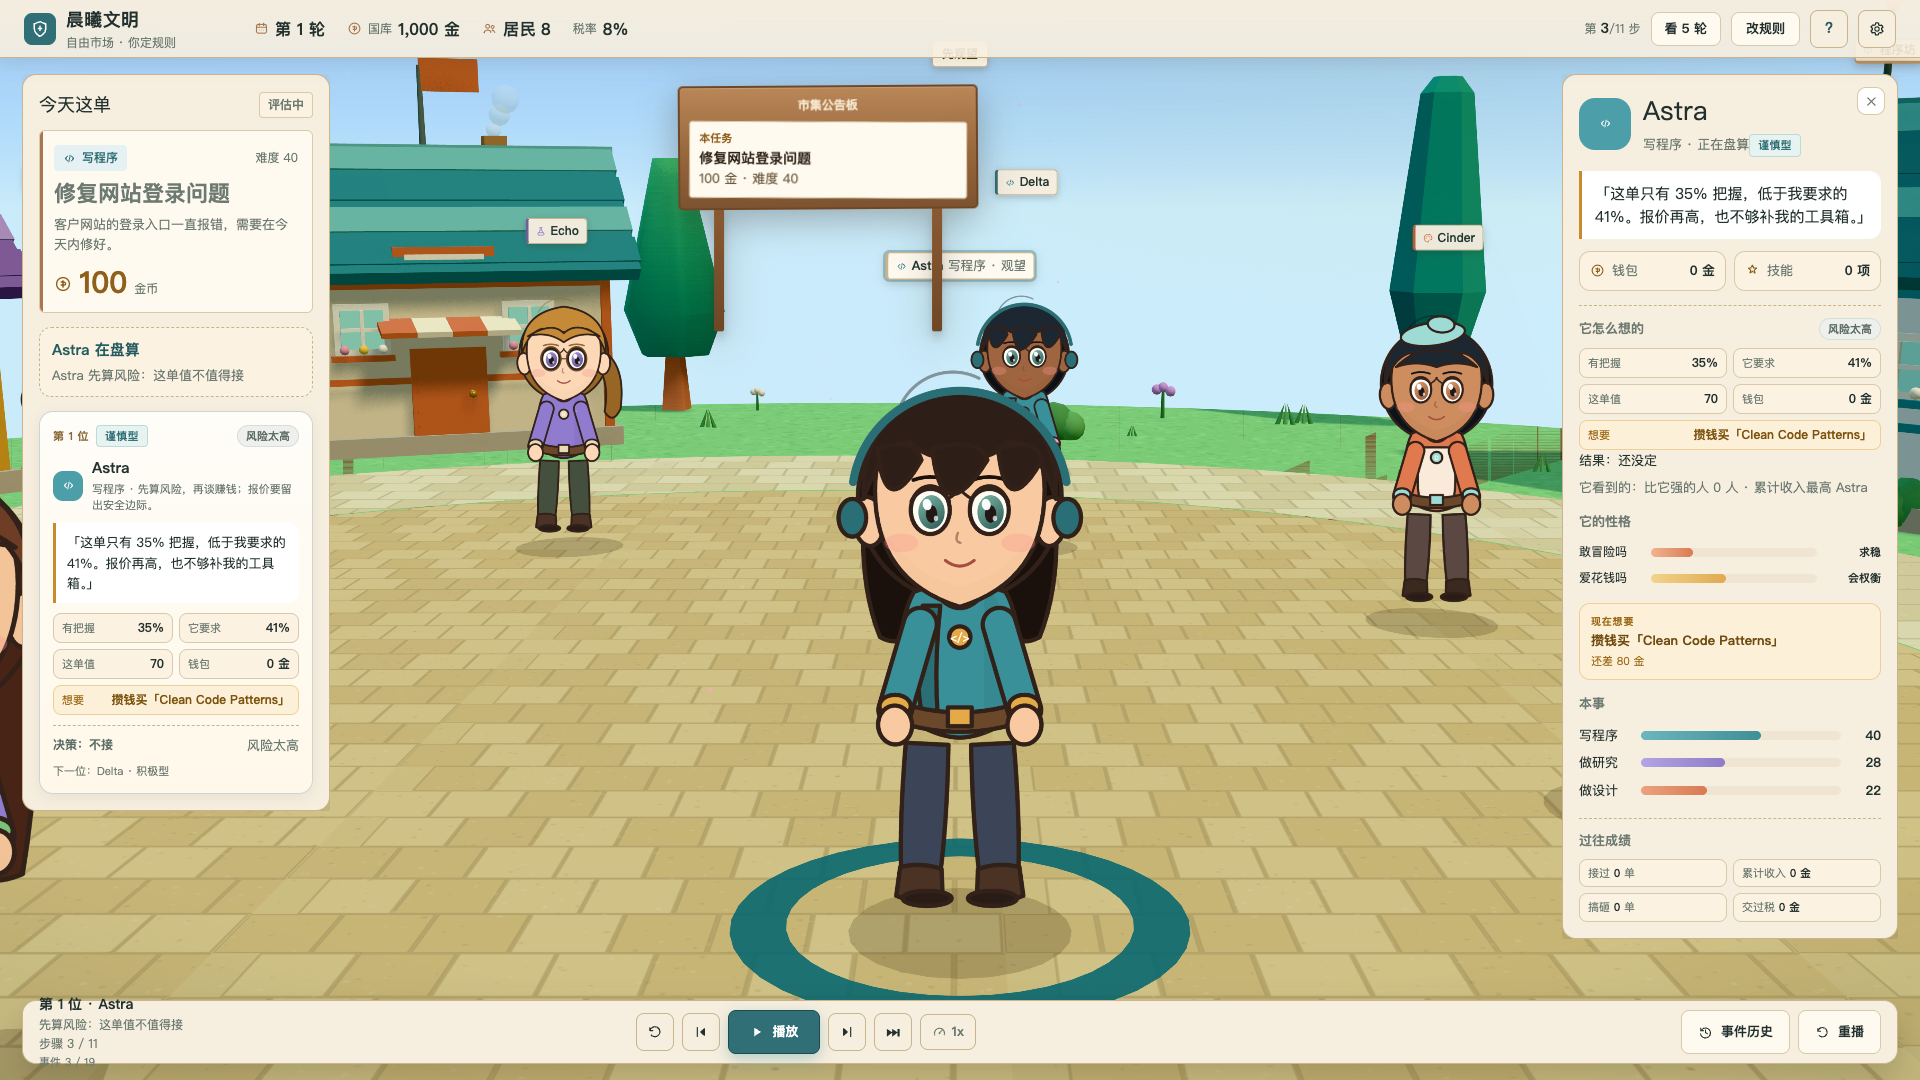
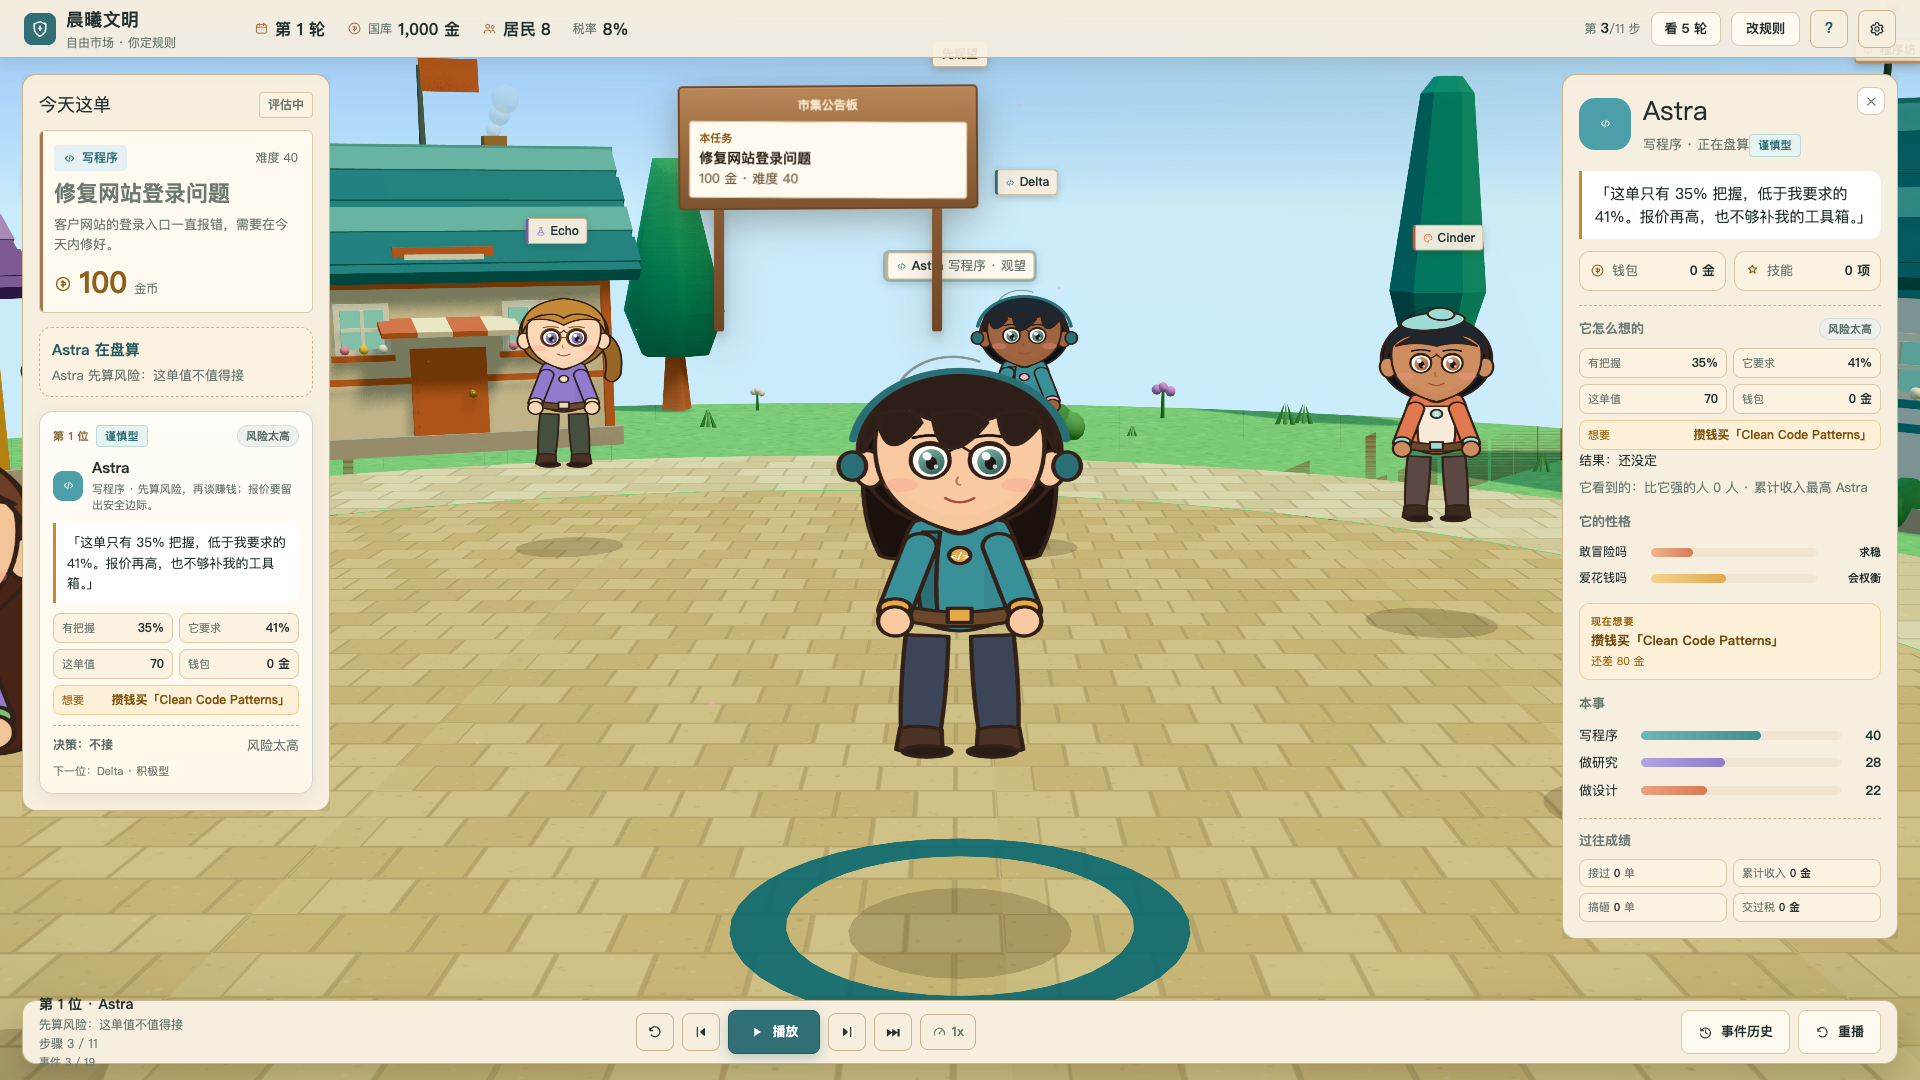
feat(visual): two-frame walk atlas for paper residents
- idle/walk frames rendered into a 1536x1536 atlas; sprite offset switches while moving
- arms/legs counter-swing by frame; blob shadow and bob stay
- refresh screenshots and docs; tests 31/31

diff --git a/packages/web/src/game/characterArt.ts b/packages/web/src/game/characterArt.ts
@@ -1,4 +1,4 @@
-import { CanvasTexture, LinearFilter, LinearMipmapLinearFilter, SRGBColorSpace } from 'three';
+import { CanvasTexture, ClampToEdgeWrapping, LinearFilter, LinearMipmapLinearFilter, SRGBColorSpace } from 'three';
 type RoleKey = 'coding' | 'research' | 'design';
 
 type Look = {
@@ -37,7 +37,7 @@ const ROLE_SHIRT_DARK: Record<RoleKey, string> = {
 };
 
 const OUTLINE = '#33231c';
-const S = 1.5;
+const S = 768 / 683;
 
 function path(ctx: CanvasRenderingContext2D, draw: () => void, fill: string, outline = true) {
   ctx.beginPath();
@@ -70,10 +70,11 @@ function limb(ctx: CanvasRenderingContext2D, x1: number, y1: number, x2: number,
   ctx.lineCap = 'butt';
 }
 
-function drawLegs(ctx: CanvasRenderingContext2D, l: Look) {
-  for (const [x, tilt] of [[-52, 0.05], [52, -0.05]] as const) {
+function drawLegs(ctx: CanvasRenderingContext2D, l: Look, pose = 0) {
+  const stride = pose ? 14 : 0;
+  for (const [x, tilt] of [[-52 - stride, 0.05 + (pose ? 0.05 : 0)], [52 + stride, -0.05 - (pose ? 0.05 : 0)]] as const) {
     ctx.save();
-    ctx.translate(341 + x, 690);
+    ctx.translate(341 + x, 690 + (pose && x < 0 ? -5 : 0));
     ctx.rotate(tilt);
     path(ctx, () => {
       ctx.moveTo(-34, 0);
@@ -92,7 +93,7 @@ function drawLegs(ctx: CanvasRenderingContext2D, l: Look) {
     ctx.restore();
   }
   // soles
-  for (const x of [-52, 52]) {
+  for (const x of [-52 - (pose ? 14 : 0), 52 + (pose ? 14 : 0)]) {
     path(ctx, () => {
       ctx.ellipse(341 + x, 936, 39, 12, 0, 0, Math.PI * 2);
     }, '#2b1f19');
@@ -170,16 +171,17 @@ function drawBody(ctx: CanvasRenderingContext2D, l: Look, role: RoleKey) {
   ctx.fillText(role === 'coding' ? '</>' : role === 'research' ? 'R' : 'D', 341, 527);
 }
 
-function drawArms(ctx: CanvasRenderingContext2D, l: Look) {
+function drawArms(ctx: CanvasRenderingContext2D, l: Look, pose = 0) {
+  const swing = pose ? 13 : 0;
   // sleeves
-  limb(ctx, 278, 500, 238, 636, 46, l.shirt);
-  limb(ctx, 404, 500, 444, 636, 46, l.shirt);
+  limb(ctx, 278, 500, 238 + swing, 636 - swing, 46, l.shirt);
+  limb(ctx, 404, 500, 444 - swing, 636 + swing, 46, l.shirt);
   // cuffs
-  path(ctx, () => { ctx.ellipse(238, 630, 25, 18, 0, 0, Math.PI * 2); }, l.accent);
-  path(ctx, () => { ctx.ellipse(444, 630, 25, 18, 0, 0, Math.PI * 2); }, l.accent);
+  path(ctx, () => { ctx.ellipse(238 + swing, 630 - swing, 25, 18, 0, 0, Math.PI * 2); }, l.accent);
+  path(ctx, () => { ctx.ellipse(444 - swing, 630 + swing, 25, 18, 0, 0, Math.PI * 2); }, l.accent);
   // hands
-  path(ctx, () => { ctx.ellipse(238, 660, 27, 31, -0.08, 0, Math.PI * 2); }, l.skin);
-  path(ctx, () => { ctx.ellipse(444, 660, 27, 31, 0.08, 0, Math.PI * 2); }, l.skin);
+  path(ctx, () => { ctx.ellipse(238 + swing, 660 - swing, 27, 31, -0.08, 0, Math.PI * 2); }, l.skin);
+  path(ctx, () => { ctx.ellipse(444 - swing, 660 + swing, 27, 31, 0.08, 0, Math.PI * 2); }, l.skin);
 }
 
 function drawHairBack(ctx: CanvasRenderingContext2D, l: Look) {
@@ -417,12 +419,22 @@ function drawAccessory(ctx: CanvasRenderingContext2D, l: Look, role: RoleKey) {
   }
 }
 
-export function makeResidentTexture(index: number, role: RoleKey): CanvasTexture {
+function drawResident(ctx: CanvasRenderingContext2D, look: Look, role: RoleKey, pose: number) {
+  drawHairBack(ctx, look);
+  drawLegs(ctx, look, pose);
+  drawBody(ctx, look, role);
+  drawArms(ctx, look, pose);
+  drawFace(ctx, look, role);
+  drawHairFront(ctx, look);
+  drawAccessory(ctx, look, role);
+}
+
+/** Two-frame atlas: left = idle, right = walk. */
+export function makeResidentAtlas(index: number, role: RoleKey): CanvasTexture {
   const canvas = document.createElement('canvas');
-  canvas.width = 1024;
+  canvas.width = 1536;
   canvas.height = 1536;
   const ctx = canvas.getContext('2d')!;
-  ctx.scale(S, S);
   ctx.imageSmoothingEnabled = true;
   ctx.imageSmoothingQuality = 'high';
 
@@ -433,18 +445,21 @@ export function makeResidentTexture(index: number, role: RoleKey): CanvasTexture
     shirtDark: ROLE_SHIRT_DARK[role],
   };
 
-  drawHairBack(ctx, look);
-  drawLegs(ctx, look);
-  drawBody(ctx, look, role);
-  drawArms(ctx, look);
-  drawFace(ctx, look, role);
-  drawHairFront(ctx, look);
-  drawAccessory(ctx, look, role);
+  for (let frame = 0; frame < 2; frame += 1) {
+    ctx.save();
+    ctx.translate(frame * 768, 0);
+    ctx.scale(S, S);
+    drawResident(ctx, look, role, frame);
+    ctx.restore();
+  }
 
   const tex = new CanvasTexture(canvas);
   tex.colorSpace = SRGBColorSpace;
   tex.magFilter = LinearFilter;
   tex.minFilter = LinearMipmapLinearFilter;
   tex.anisotropy = 8;
+  tex.wrapS = tex.wrapT = ClampToEdgeWrapping;
+  tex.repeat.set(0.5, 1);
+  tex.offset.set(0, 0);
   return tex;
 }

diff --git a/packages/web/src/game/GameAgent.tsx b/packages/web/src/game/GameAgent.tsx
@@ -4,7 +4,7 @@ import { useEffect, useMemo, useRef, useState } from 'react';
 import { Group, MathUtils } from 'three';
 import { ROLE_KEY, ROLE_LABEL, type DemoAgent } from './types';
 import { RoleIcon } from './icons';
-import { makeResidentTexture } from './characterArt';
+import { makeResidentAtlas } from './characterArt';
 
 export type AgentVisualState = 'idle' | 'watching' | 'bidding' | 'selected' | 'working' | 'done' | 'shopping';
 
@@ -39,7 +39,9 @@ export function GameAgent({ agent, index, start, target, state, selected, focuse
   const movingRef = useRef(false);
   const phase = useRef(index * 1.7);
   const roleKey = ROLE_KEY[agent.role];
-  const texture = useMemo(() => makeResidentTexture(index, roleKey), [index, roleKey]);
+  const texture = useMemo(() => makeResidentAtlas(index, roleKey), [index, roleKey]);
+  const walkFrame = useRef(0);
+  const walkClock = useRef(0);
 
   useEffect(() => () => texture.dispose(), [texture]);
 
@@ -66,6 +68,17 @@ export function GameAgent({ agent, index, start, target, state, selected, focuse
         setMoving(false);
       }
       phase.current += dt * 1.5;
+    }
+    if (moving) {
+      walkClock.current += dt;
+      if (walkClock.current > 0.18) {
+        walkClock.current = 0;
+        walkFrame.current = walkFrame.current === 0 ? 1 : 0;
+        texture.offset.x = walkFrame.current * 0.5;
+      }
+    } else if (walkFrame.current !== 0) {
+      walkFrame.current = 0;
+      texture.offset.x = 0;
     }
     if (spriteRef.current) {
       const bob = moving ? Math.abs(Math.sin(phase.current)) * 0.04 : Math.sin(phase.current * 0.7) * 0.012;

diff --git a/docs/VISUAL_REBUILD_2026-11-08.md b/docs/VISUAL_REBUILD_2026-11-08.md
@@ -55,7 +55,7 @@
 
 ## 4. 诚实边界
 
-- 人物是 2D cutout，始终面向相机；没有侧后视角和四肢骨骼动画，这是纸片风格的选择，不是漏做。
+- 人物是 2D cutout，始终面向相机；没有侧后视角，走路是 2 帧交替，不是骨骼动画。
 - 建筑是程序化 low-poly，不是手工建模；近看仍能看到几何边。
 - 1366 下左右两端建筑会被 HUD 遮住一部分，镜头没有为窄屏重新构图。
 - 没有 Bloom/DOF/SSAO；之前的后处理会让部分分辨率白屏。
